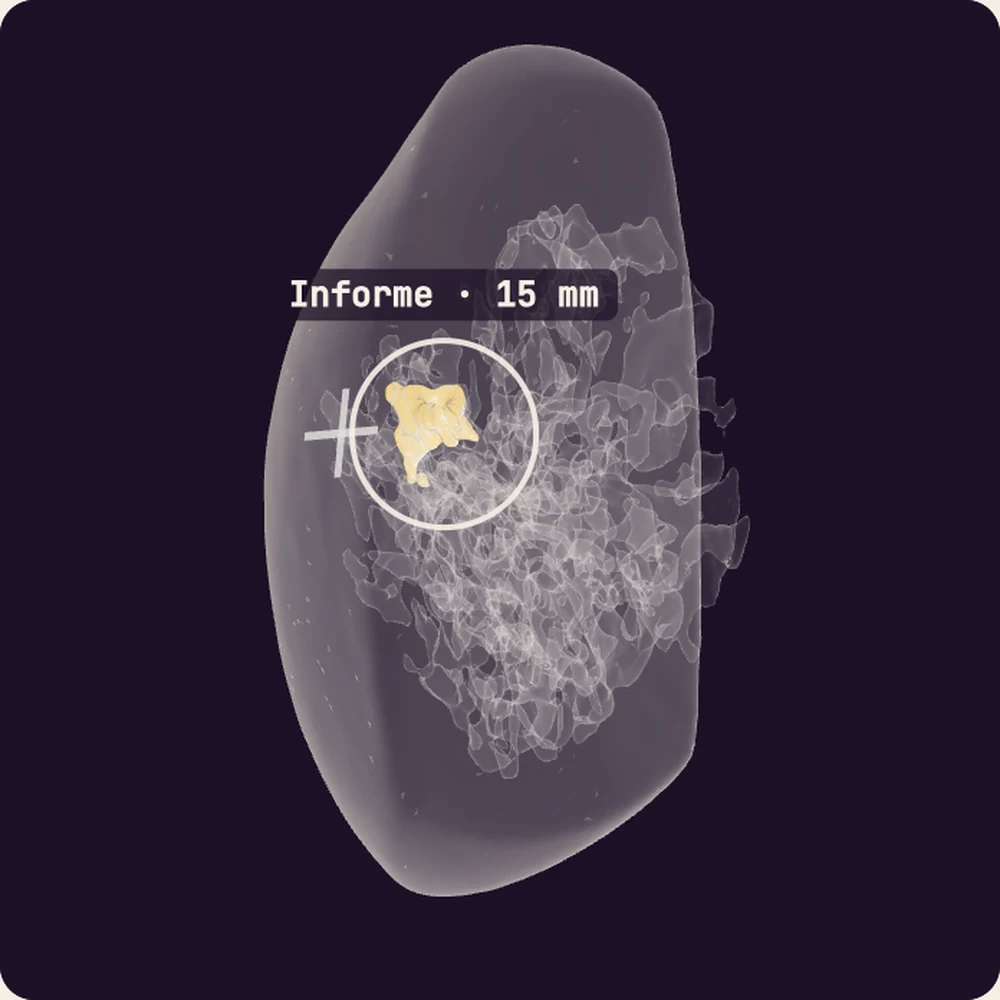
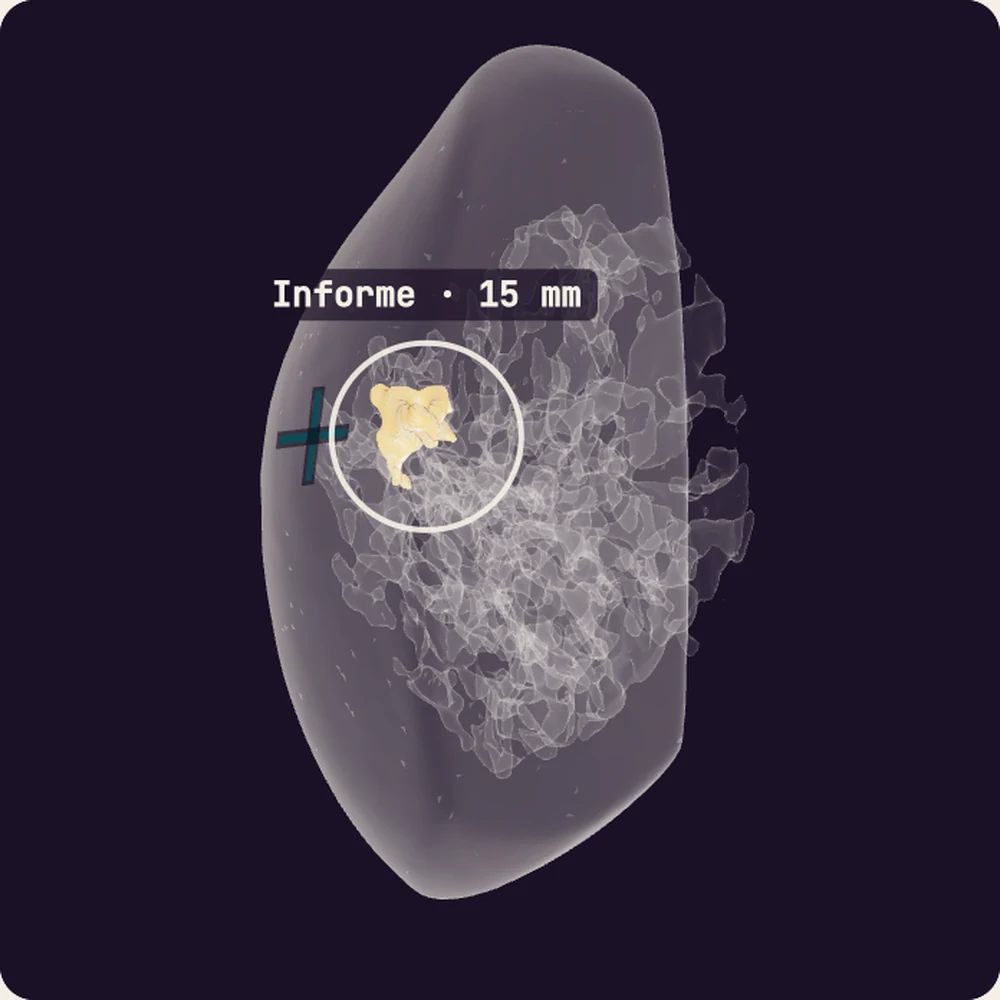
fix(lesiones): la cruz del pezón deja de compartir blanco con el anillo del tumor
El comité giró la pieza en vivo y vio lo que yo no: con el tumor cerca del pezón, que es
exactamente el caso de Miriam, la cruz blanca y el anillo blanco de la lesión acaban leyéndose
como una sola cosa en algunas rotaciones. Es el mismo problema que hizo descartar el círculo,
disfrazado de otra forma.

La cruz pasa al turquesa del sistema (#1c969e), que en esta página solo se usa para señalar y
nunca para anatomía, con un reborde oscuro detrás para que se despegue también del contorno
claro de la mama. El anillo y el rótulo del tumor se quedan como estaban: son la medida del
radiólogo y mandan.

diff --git a/app/components/BreastView.client.vue b/app/components/BreastView.client.vue
@@ -204,12 +204,23 @@ async function init() {
     // cualquier cosa redonda aquí se confunde con ella (Miriam lo vio antes que yo). La cruz es
     // una marca distinta a simple vista, y va SOBRE la superficie, orientada por la normal de la
     // mama en ese punto, de modo que gira con la pieza en vez de flotar pegada a la pantalla.
+    // El color NO es el blanco del anillo de la lesión, y eso importa: el comité lo giró en vivo
+    // y con el tumor cerca del pezón (que es el caso) la cruz y el anillo acababan leyéndose
+    // como una sola cosa, que es justo el problema que hizo descartar el círculo. Va en el
+    // turquesa del sistema, que en esta página solo se usa para señalar, nunca para anatomía, y
+    // con un reborde oscuro para que se despegue también del contorno claro de la mama.
     const grupo = new THREE.Group()
-    const tinta = new THREE.MeshBasicMaterial({ color: 0xf5efe6, transparent: true,
-      opacity: 0.85, side: THREE.DoubleSide, depthWrite: false })
+    const borde = new THREE.MeshBasicMaterial({ color: 0x1c1126, transparent: true,
+      opacity: 0.55, side: THREE.DoubleSide, depthWrite: false })
+    const tinta = new THREE.MeshBasicMaterial({ color: 0x1c969e, transparent: true,
+      opacity: 0.95, side: THREE.DoubleSide, depthWrite: false })
     for (const giro of [0, Math.PI / 2]) {
+      const sombra = new THREE.Mesh(new THREE.PlaneGeometry(18.6, 3.2), borde)
+      sombra.rotation.z = giro
+      grupo.add(sombra)
       const barra = new THREE.Mesh(new THREE.PlaneGeometry(17, 1.6), tinta)
       barra.rotation.z = giro
+      barra.position.z = 0.01
       grupo.add(barra)
     }
     grupo.position.copy(pezon3); grupo.lookAt(fuera); grupo.renderOrder = 7
@@ -320,7 +331,7 @@ onBeforeUnmount(() => {
         {{ L('Vasos de la mama, los que le llevan la sangre (y el contraste) al tumor', 'Vessels of the breast, the ones carrying blood (and contrast) to the tumour') }}
       </li>
       <li class="flex items-start gap-1.5">
-        <span class="inline-block w-2.5 h-2.5 mt-[2px] shrink-0 text-[13px] leading-none text-center text-berenjena" aria-hidden="true">+</span>
+        <span class="inline-block w-2.5 h-2.5 mt-[2px] shrink-0 text-[13px] leading-none text-center" style="color:#1c969e" aria-hidden="true">+</span>
         {{ L('La cruz marca el pezón, que es la referencia para orientarse en una mama; su relieve no está en el modelo', 'The cross marks the nipple, the reference point for orienting yourself on a breast; its relief is not in the model') }}
       </li>
     </ul>
